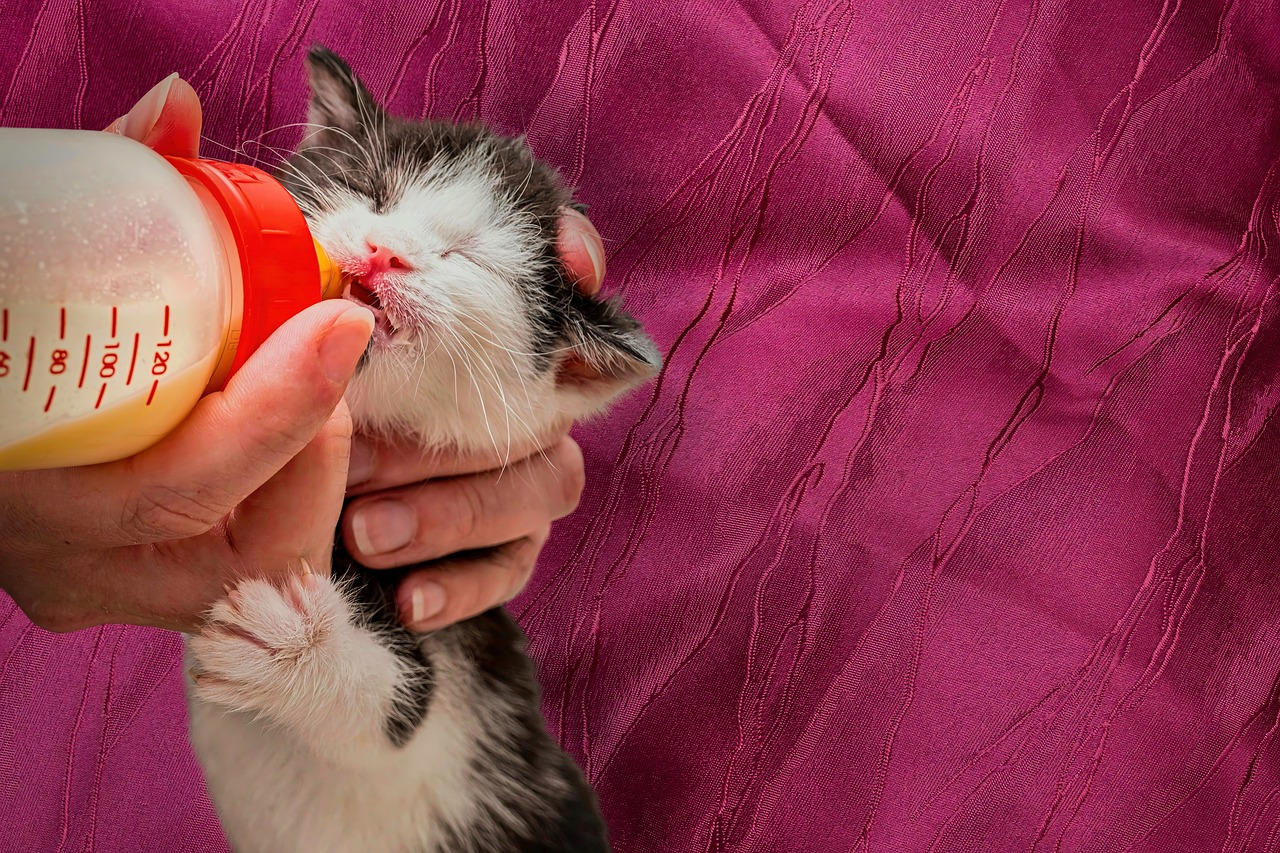
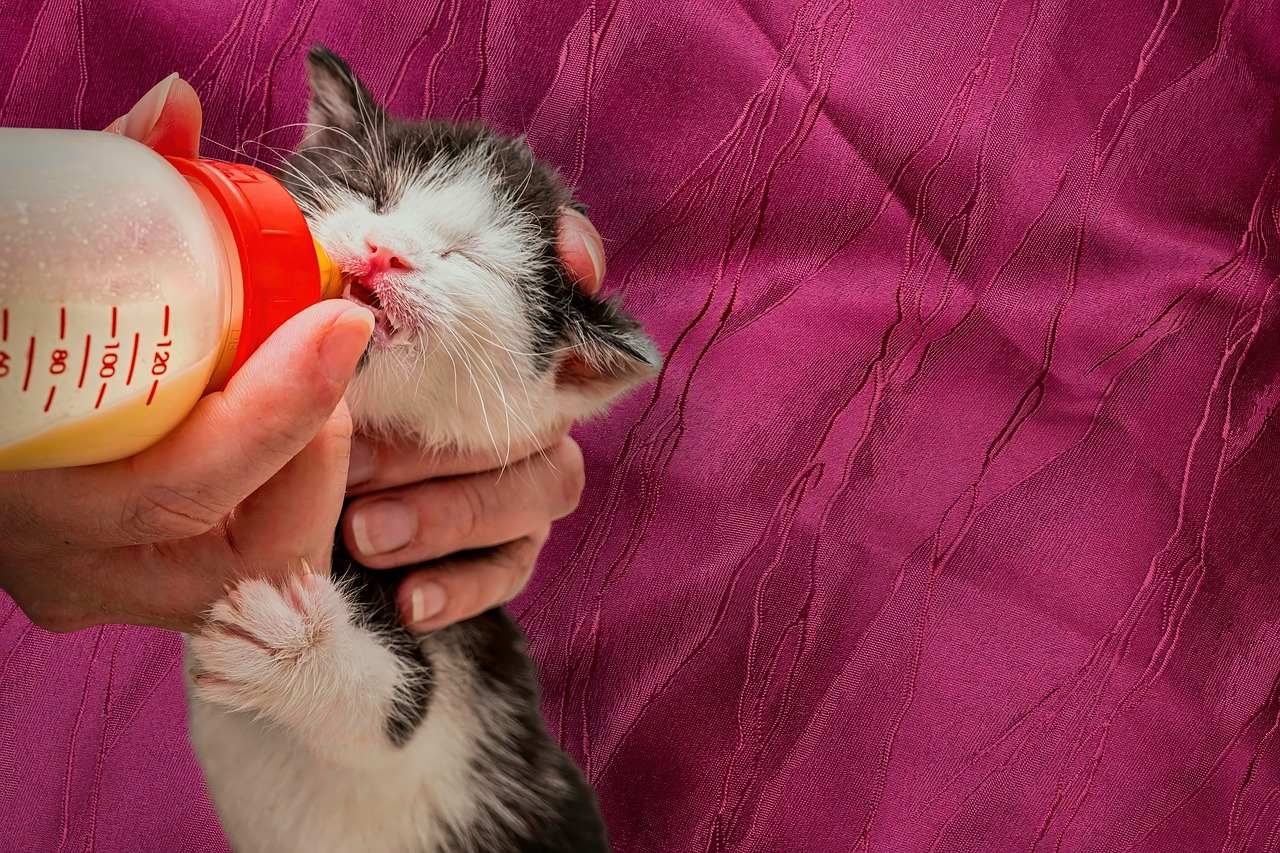
reduced img size

diff --git a/contribute.html b/contribute.html
@@ -95,16 +95,16 @@
           <section class="card">
             <div class="contribute-family-img">
               <img
-                src="images/contribute/young-family-with-kids-having-fun-with-horse-forest.jpg"
+                src="images/contribute/nora-hutton-F5QDlgwYfWI-unsplash.jpg"
                 alt="horse-family"
               />
-              <!-- This is my personal Image -->
+              <!-- This image is from unsplash -->
             </div>
             <div class="contribute-family-content">
               <h4>Romeo</h4>
               <p>
-                "We adopted Romeo, from Creature Comforts and couldn't be
-                happier with our new addition to the family! He has the sweetest
+                "I adopted Romeo, from Creature Comforts and couldn't be happier
+                with our new addition to the family! He has the sweetest
                 personality and is a joy to ride. Thanks for helping us find our
                 perfect match!"
               </p>
@@ -131,7 +131,7 @@
           <section class="card">
             <div class="contribute-family-img">
               <img
-                src="images/contribute/parent-spending-quality-time-with-their-children.jpg"
+                src="images/contribute/summer-g479a5e06d_640.jpg"
                 alt="rabbit-familiy"
               />
               <!-- This image is from unsplash -->
@@ -187,7 +187,7 @@
           </div>
           <div class="contribute-adoption-card">
             <img
-              src="images/contribute/waranya-mooldee-Efj0HGPdPKs-unsplash.jpg"
+              src="images/contribute/gavin-allanwood-hcxqLJjI99E-unsplash.jpg"
               alt="brown-rabbit"
             /><!-- This image is from unsplash -->
             <h3>Rusty</h3>
@@ -212,7 +212,7 @@
           <div class="contribute-adoption-card">
             <img
               src="images/contribute/kim-green-D_pXn7cueOs-unsplash.jpg"
-              alt="cat-veterinary"
+              alt="white-ham"
             /><!-- This image is from unsplash -->
             <h3>Oliver</h3>
             <div class="overlay"></div>
@@ -240,8 +240,8 @@
         <div class="contribute-foster-banner">
           <img
             src="images/contribute/cat-g0ac6206f7_1280.jpg"
-            alt="cat-veterinary"
-          /><!-- This image is from unsplash -->
+            alt="cat-adopt"
+          /><!-- This image is from Free pick -->
         </div>
         <div class="contribute-foster-content">
           <h2>Not sure you’re ready to adopt?</h2>
